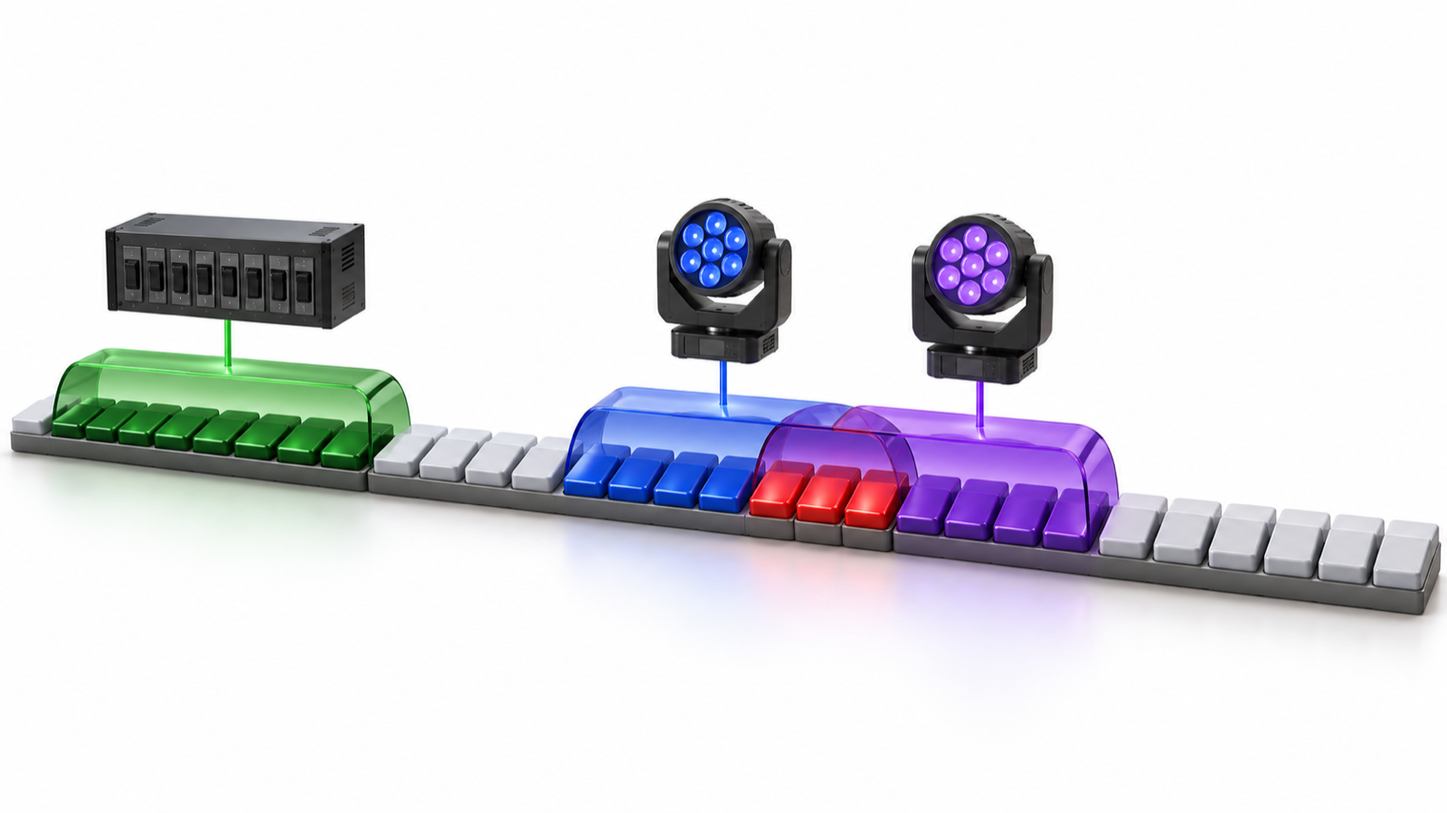
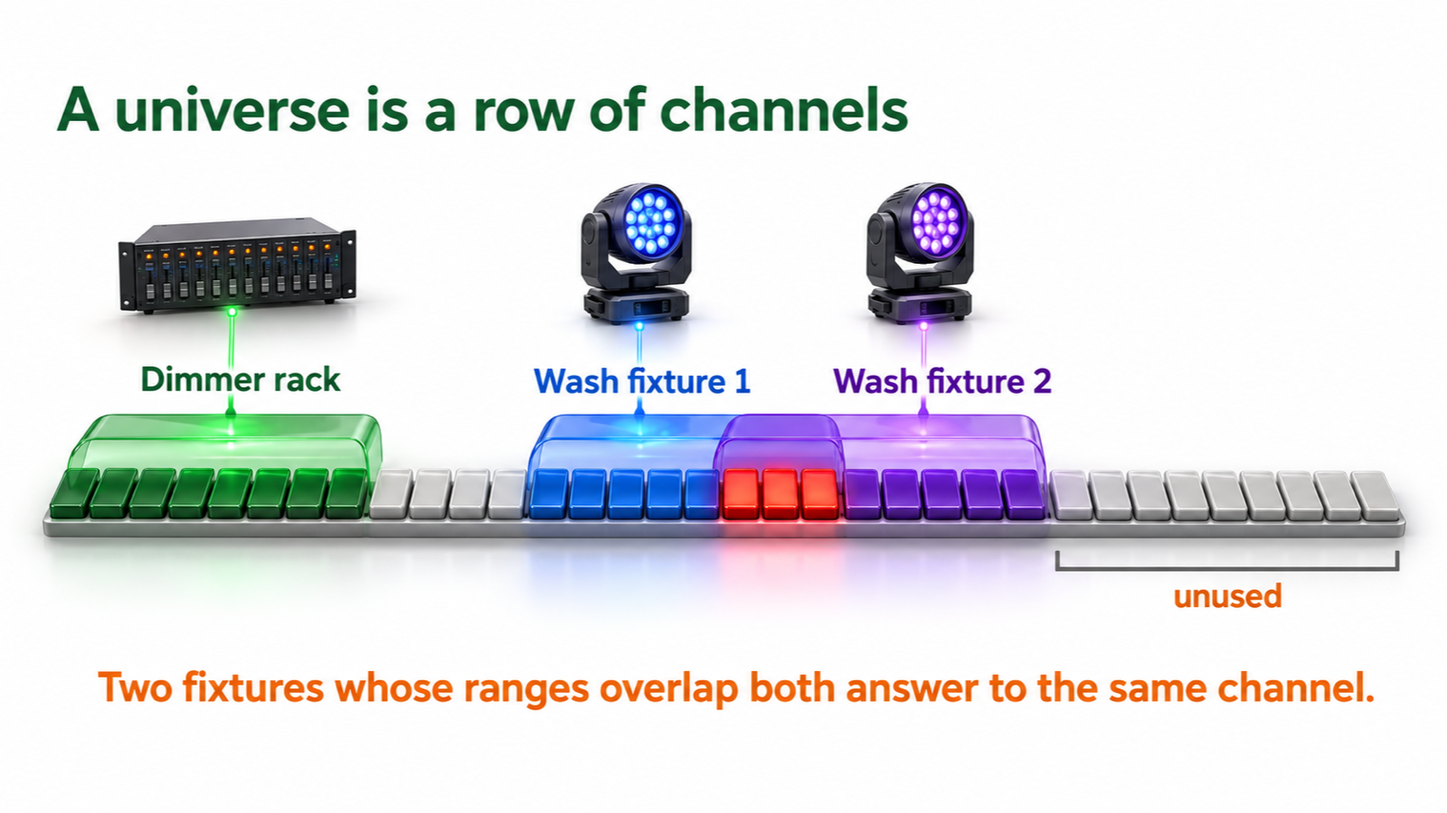
Canvas: 2026-10-02 23:16 - 23 files

Changed region(s): [[0.0, 0.2178, 1.0, 0.7778], [0.0625, 0.8089, 0.9688, 0.8711], [0.0312, 0.0933, 0.625, 0.1867]]

diff --git a/Classes/DAPR-2020--Core_Mixing/Mixing__Tuning/Archive/Scale_and_Target_Notes_Curves (earlier try 2026-10-02 1647).png.md b/Classes/DAPR-2020--Core_Mixing/Mixing__Tuning/Archive/Scale_and_Target_Notes_Curves (earlier try 2026-10-02 1647).png.md
@@ -1,0 +1,26 @@
+# Scale_and_Target_Notes_Curves (earlier try 2026-10-02 1647).png
+
+- What: earlier try
+- For: Canvas: Tuning: Pitch Correction Procedure Guide (Figure 1)
+- Picture: /Users/adamwolson/Library/CloudStorage/Dropbox/apps/GitHub/Canvas/Classes/DAPR-2020--Core_Mixing/Mixing__Tuning/Scale_and_Target_Notes_Curves.png
+- What was wrong or right (Adam's notes): PIANO KEYBOARD, EXACT (Adam 2026-10-02: the last one missed a black key in the bottom group). Two octaves, lowest note at the bottom, from F up to E. Bottom to top, one row per key, 24 rows: F white, F# black, G white, G# black, A white, A# black, B white, C white, C# black, D white, D# black, E white, then the same twelve again: F, F#, G, G#, A, A#, B, C, C#, D, D#, E. That is 14 white keys and 10 black keys. The black keys form four groups, bottom to top: THREE (F# G# A#), TWO (C# D#), THREE (F# G# A#), TWO (C# D#). Two white keys touch with no black key between them at B to C and at E to F. Black keys are shorter than white keys. Count the black keys before finishing: 10, grouped 3-2-3-2 from the bottom. The grid has exactly 24 rows lined up with the 24 keys; the C major rows are the 14 white-key rows.
+- Archived: 2026-10-02 1647
+
+## The prompt it was made from
+
+REPLACE AN IMAGE FILE. Adam's decision is already made: make this corrected image so it is saved over the existing file named below. Do not refuse and do not ask for a photo.
+
+DAPR 2020 - Core Mixing
+Image: Target notes constrained to the rows of one scale
+File name: Scale_and_Target_Notes_Curves.png
+Save to (overwrite): /Users/adamwolson/Library/CloudStorage/Dropbox/apps/GitHub/Canvas/Classes/DAPR-2020--Core_Mixing/Mixing__Tuning/Scale_and_Target_Notes_Curves.png
+Size: 1600 x 900 px
+Format: PNG, solid white background
+Used on: Tuning: Pitch Correction Procedure Guide (Figure 1)
+Fix: The current target lines are evenly spaced every whole step (a whole tone scale). A real major scale has seven targets per octave with half steps between E and F and between B and C, so two pairs of adjacent targets per octave sit only one row apart. The rainbow line colors also carry no meaning and are replaced by one color.
+
+Create a 1600 x 900 pixel PNG with a solid white background (#FFFFFF), wide landscape. A richly rendered dimensional diagram of a pitch editor piano roll seen from a slight three quarter angle. On the left edge, an accurate vertical piano keyboard, keys pointing right, lowest note at the bottom, covering about one and a half octaves from C: white keys full length, black keys shorter and glossy black in groups of two and three, no black key between E and F or between B and C. To the right, a grid of horizontal rows, one row per key. On every row that belongs to a white key (the C major scale) lies a glowing green (#1B5E20) target rail running the full width; rows that belong to black keys have no rail and stay plain light gray. The rails are therefore not evenly spaced: most neighbours are two rows apart, but E to F and B to C are only one row apart. Along the rails sit several short glossy blue (#0D47A1) note blocks at different heights, each resting exactly on a green rail and never on a gray row, showing where the corrector will pull each sung note. No text, no numbers, no logos, no brand marks, no model numbers, no watermark, no signature, no borders, no frames, no title bars, no caption text, no legible software screens (any screen is dark or softly defocused). No real product you could name. No hands or people.
+
+Adam's notes (they win over anything above): PIANO KEYBOARD, EXACT (Adam 2026-10-02: the last one missed a black key in the bottom group). Two octaves, lowest note at the bottom, from F up to E. Bottom to top, one row per key, 24 rows: F white, F# black, G white, G# black, A white, A# black, B white, C white, C# black, D white, D# black, E white, then the same twelve again: F, F#, G, G#, A, A#, B, C, C#, D, D#, E. That is 14 white keys and 10 black keys. The black keys form four groups, bottom to top: THREE (F# G# A#), TWO (C# D#), THREE (F# G# A#), TWO (C# D#). Two white keys touch with no black key between them at B to C and at E to F. Black keys are shorter than white keys. Count the black keys before finishing: 10, grouped 3-2-3-2 from the bottom. The grid has exactly 24 rows lined up with the 24 keys; the C major rows are the 14 white-key rows.
+
+KEEP EVERY WORD AND NUMBER (this wins over any line above that says no text, no numbers, no addresses or only one label): open the old image at /Users/adamwolson/Library/CloudStorage/Dropbox/apps/GitHub/Canvas/Classes/DAPR-2020--Core_Mixing/Mixing__Tuning/Scale_and_Target_Notes_Curves.png. Every label, number, address, value, unit and explanation it shows must be in the new picture, spelled exactly, beside the part it describes, large and easy to read. Change only the wording this item calls wrong, and write the corrected wording in its place. Never drop text to make the picture look cleaner.

diff --git a/Classes/DAPR-2020--Core_Mixing/Monitoring__Calibration_and_Monitoring/Archive/Head_Torso_Measurement (earlier try 2026-10-02 1646).png.md b/Classes/DAPR-2020--Core_Mixing/Monitoring__Calibration_and_Monitoring/Archive/Head_Torso_Measurement (earlier try 2026-10-02 1646).png.md
@@ -1,0 +1,26 @@
+# Head_Torso_Measurement (earlier try 2026-10-02 1646).png
+
+- What: earlier try
+- For: Canvas: Assignment: Pro Tools Lab 02 (Figure 1); Calibration: Speaker and Headphone Level Calibration (Figure 2)
+- Picture: /Users/adamwolson/Library/CloudStorage/Dropbox/apps/GitHub/Canvas/Classes/DAPR-2020--Core_Mixing/Monitoring__Calibration_and_Monitoring/Head_Torso_Measurement.png
+- What was wrong or right (Adam's notes): Adam 2026-10-02: Never put a microphone deep inside the ear; a measurement microphone is never pushed into the ear canal. NO headphones on the head. Show a gray head and torso measurement mannequin, side view, with a small measurement microphone sitting at the ENTRANCE of the ear canal, flush with the ear opening and nothing inside the ear, its cable running to a panel labeled Measured response with a frequency response curve. Label the microphone: Microphone at the ear canal entrance.
+- Archived: 2026-10-02 1646
+
+## The prompt it was made from
+
+REPLACE AN IMAGE FILE. Adam's decision is already made: make this corrected image so it is saved over the existing file named below. Do not refuse and do not ask for a photo.
+
+DAPR 2020 - Core Mixing
+Image: Headphone measured on a head and torso simulator with a microphone at the eardrum
+File name: Head_Torso_Measurement.png
+Save to (overwrite): /Users/adamwolson/Library/CloudStorage/Dropbox/apps/GitHub/Canvas/Classes/DAPR-2020--Core_Mixing/Monitoring__Calibration_and_Monitoring/Head_Torso_Measurement.png
+Size: 1600 x 900 px
+Format: PNG, solid white background
+Used on: Assignment: Pro Tools Lab 02 (Figure 1); Calibration: Speaker and Headphone Level Calibration (Figure 2)
+Fix: The current drawing puts the microphone at the ear canal opening and shows no headphone, although the caption describes a headphone measurement with the microphone where the eardrum would be. The new image shows a headphone on a measurement dummy with the microphone at the inner end of the ear canal.
+
+Create a 1600 x 900 pixel PNG with a solid white background (#FFFFFF), wide landscape. Photorealistic product photograph on a seamless white sweep, soft studio light. Left half: a generic head and torso measurement simulator, a smooth matte light gray mannequin head and shoulders with simple sculpted ears and no facial detail beyond a smooth nose and brow, seen in profile facing left. It wears a generic over ear headphone in charcoal (#212121). A clean cutaway window through the headphone cup and the side of the head reveals the ear canal as a short tube running inward, and at its inner end, where the eardrum would be, a small satin metal measurement microphone capsule with a thin blue (#0D47A1) glowing cable. The cable runs out and to the right into a floating glossy panel in the right half of the image that holds a raised blue response curve ribbon: a gentle rise, a broad hump, a dip and a smaller peak, over a plain panel with no grid numbers. No text, no numbers, no logos, no brand marks, no model numbers, no watermark, no signature, no borders, no frames, no title bars, no caption text, no legible software screens (any screen is dark or softly defocused). No real product you could name. No hands or people; the mannequin is a featureless measurement dummy.
+
+Adam's notes (they win over anything above): Adam 2026-10-02: Never put a microphone deep inside the ear; a measurement microphone is never pushed into the ear canal. NO headphones on the head. Show a gray head and torso measurement mannequin, side view, with a small measurement microphone sitting at the ENTRANCE of the ear canal, flush with the ear opening and nothing inside the ear, its cable running to a panel labeled Measured response with a frequency response curve. Label the microphone: Microphone at the ear canal entrance.
+
+KEEP EVERY WORD AND NUMBER (this wins over any line above that says no text, no numbers, no addresses or only one label): open the old image at /Users/adamwolson/Library/CloudStorage/Dropbox/apps/GitHub/Canvas/Classes/DAPR-2020--Core_Mixing/Monitoring__Calibration_and_Monitoring/Head_Torso_Measurement.png. Every label, number, address, value, unit and explanation it shows must be in the new picture, spelled exactly, beside the part it describes, large and easy to read. Change only the wording this item calls wrong, and write the corrected wording in its place. Never drop text to make the picture look cleaner.

diff --git a/Classes/DAPR-3255--Audio_Hardware_II/Networking__Foundations_of_Audio_Networking/Archive/Two_Arrow_Ladders_With_Dropped_Packet (earlier try 2026-10-02 1651).png.md b/Classes/DAPR-3255--Audio_Hardware_II/Networking__Foundations_of_Audio_Networking/Archive/Two_Arrow_Ladders_With_Dropped_Packet (earlier try 2026-10-02 1651).png.md
@@ -1,0 +1,34 @@
+# Two_Arrow_Ladders_With_Dropped_Packet (earlier try 2026-10-02 1651).png
+
+- What: earlier try
+- For: Canvas: Networking: Layer 4: Transport Protocols, Figure 2
+- Picture: /Users/adamwolson/Library/CloudStorage/Dropbox/apps/GitHub/Canvas/Classes/DAPR-3255--Audio_Hardware_II/Networking__Foundations_of_Audio_Networking/Two_Arrow_Ladders_With_Dropped_Packet.png
+- What was wrong or right (Adam's notes): No note written. Press N on the item to say what was wrong.
+- Archived: 2026-10-02 1651
+
+## The prompt it was made from
+
+REPLACE AN IMAGE FILE. Adam's decision is already made: make this corrected image so it is saved over the existing file named below. Do not refuse and do not ask for a photo.
+
+DAPR 3255 - Audio Hardware II
+Image: TCP Handshake and Resend Versus UDP Steady Stream
+File name: Two_Arrow_Ladders_With_Dropped_Packet.png
+Save to (overwrite): /Users/adamwolson/Library/CloudStorage/Dropbox/apps/GitHub/Canvas/Classes/DAPR-3255--Audio_Hardware_II/Networking__Foundations_of_Audio_Networking/Two_Arrow_Ladders_With_Dropped_Packet.png
+Size: 1600 x 900 px
+Format: PNG, solid white background
+Used on: Networking: Layer 4: Transport Protocols, Figure 2
+Fix: Show a three leg TCP handshake (out, back, out) before the data, and after the lost packet show the receiver asking again and the sender resending the same packet, with the packets behind it held waiting, so TCP visibly arrives complete but late. UDP keeps its even spacing and simply loses one packet.
+
+Create a 1600 x 900 pixel PNG with a solid white background (#FFFFFF), wide landscape. Show two side by side timing ladders on pale floor tiles. Each ladder has two tall glossy charcoal #212121 posts, sender on the left post and receiver on the right post, with time flowing downward. Messages are glossy packet tiles sliding along glowing diagonal tracks that slope gently downward as they cross from one post to the other.
+
+Left ladder (blue #0D47A1 packets): at the top, three short handshake tracks zig zag across: sender to receiver, receiver back to sender, sender to receiver. Then three data packets cross. The fourth data packet shatters into red #B71C1C fragments halfway across. A small blue track returns from the receiver to the sender, and the sender sends that same packet again lower down, marked with a faint glow ring. Beside the receiver post, the packets that followed wait stacked in a small queue until the resent packet arrives. The last packet reaches the receiver noticeably lower on the post than on the right ladder: it arrives late.
+
+Right ladder (green #1B5E20 packets): no handshake. Six packets cross at perfectly even spacing. The third shatters into red fragments halfway across and is simply gone; the rest keep coming at the same even rhythm, and the last one reaches the receiver higher on the post than on the left ladder: on time.
+
+Quote exactly two labels, bold, centered above each ladder: "TCP" above the left ladder and "UDP" above the right ladder.
+
+Style: a richly rendered dimensional diagram in a three quarter view, with real depth, soft shading, soft contact shadows and solid color fills, like glossy 3D posts, tiles and glowing tracks. Not flat vector, not line art, not clip art. Palette: charcoal #212121, green #1B5E20, blue #0D47A1, red #B71C1C, brown orange #993300, violet #4A148C, with lighter tints for floors.
+
+No text other than the quoted labels, no numbers, no logos, no brand marks, no model numbers, no watermark, no signature, no borders, no frames, no title bars, no caption text, no legible software screens (any screen is dark or softly defocused). No real product you could name. No hands or people.
+
+KEEP EVERY WORD AND NUMBER (this wins over any line above that says no text, no numbers, no addresses or only one label): open the old image at /Users/adamwolson/Library/CloudStorage/Dropbox/apps/GitHub/Canvas/Classes/DAPR-3255--Audio_Hardware_II/Networking__Foundations_of_Audio_Networking/Two_Arrow_Ladders_With_Dropped_Packet.png. Every label, number, address, value, unit and explanation it shows must be in the new picture, spelled exactly, beside the part it describes, large and easy to read. Change only the wording this item calls wrong, and write the corrected wording in its place. Never drop text to make the picture look cleaner.

diff --git a/Classes/DAPR-2020--Core_Mixing/Mixing__Focus_and_Balance/Archive/Drum_Mic_Path_Lengths (earlier try 2026-10-02 2314).png.md b/Classes/DAPR-2020--Core_Mixing/Mixing__Focus_and_Balance/Archive/Drum_Mic_Path_Lengths (earlier try 2026-10-02 2314).png.md
@@ -1,0 +1,24 @@
+# Drum_Mic_Path_Lengths (earlier try 2026-10-02 2314).png
+
+- What: earlier try
+- For: Canvas: Focus and Balance: Mix Balancing (Figure 2)
+- Picture: /Users/adamwolson/Library/CloudStorage/Dropbox/apps/GitHub/Canvas/Classes/DAPR-2020--Core_Mixing/Mixing__Focus_and_Balance/Drum_Mic_Path_Lengths.png
+- What was wrong or right (Adam's notes): Adam 2026-10-02: the kick drum miking is wrong; a kick mic is never on top of the bass drum. The bass drum lies on its side: its batter head and pedal face the drummer at the throne (bottom of the picture), its front resonant head faces away (top of the picture, behind the toms). The KICK microphone sits on a short floor stand OUTSIDE the front head, at the far side from the drummer, at or just inside the front head port hole, pointing back toward the beater. Label it Kick there. Every other mic as now: Snare on the snare rim, Tom 1 and Tom 2 on their rims, Overhead L and Overhead R above the cymbals. Keep the blue path-length lines from the snare to each mic.
+- Archived: 2026-10-02 2314
+
+## The prompt it was made from
+
+REPLACE AN IMAGE FILE. Adam's decision is already made: make this corrected image so it is saved over the existing file named below. Do not refuse and do not ask for a photo.
+
+DAPR 2020 - Core Mixing
+Image: Overhead drum kit with snare to microphone path lengths
+File name: Drum_Mic_Path_Lengths.png
+Save to (overwrite): /Users/adamwolson/Library/CloudStorage/Dropbox/apps/GitHub/Canvas/Classes/DAPR-2020--Core_Mixing/Mixing__Focus_and_Balance/Drum_Mic_Path_Lengths.png
+Size: 1600 x 900 px
+Format: PNG, solid white background
+Used on: Focus and Balance: Mix Balancing (Figure 2)
+Fix: The current kit is not a real layout: the snare sits in line between the kick and the rack toms and the cymbals are drawn side on with tripod legs. The new image uses a real kit seen from directly above: rack toms mounted over the kick, snare beside the kick on the drummer's left, closest to the throne.
+
+Create a 1600 x 900 pixel PNG with a solid white background (#FFFFFF), wide landscape. Photorealistic overhead product photograph of a generic unbranded five piece drum kit, shot straight down from above, the drummer's empty throne at the bottom center of the frame. Layout exactly as a real kit: the bass drum in the center pointing up the frame away from the throne; two rack toms mounted on top of the bass drum shell, angled toward the throne; the snare drum between the throne and the bass drum, just to the image left of the bass drum, closest to the throne; the hi hat further to the image left of the snare; the floor tom to the image right of the throne; a crash cymbal above left and a ride cymbal above right. Small generic microphones: one at the front of the bass drum, one clipped at the snare rim, one clipped on each rack tom, and two overhead microphones hanging high above the kit, one over the left side and one over the right side. From the center of the snare head, five glowing blue (#0D47A1) lines run out to the bass drum mic, the two tom mics and the two overhead mics, each a clearly different length, each with small evenly spaced tick marks along it like a measuring tape. Soft even studio light, natural drum finishes in deep charcoal (#212121) with brass cymbals. No text, no numbers, no logos, no brand marks, no model numbers, no watermark, no signature, no borders, no frames, no title bars, no caption text, no legible software screens (any screen is dark or softly defocused). No real product you could name. No hands or people.
+
+KEEP EVERY WORD AND NUMBER (this wins over any line above that says no text, no numbers, no addresses or only one label): open the old image at /Users/adamwolson/Library/CloudStorage/Dropbox/apps/GitHub/Canvas/Classes/DAPR-2020--Core_Mixing/Mixing__Focus_and_Balance/Drum_Mic_Path_Lengths.png. Every label, number, address, value, unit and explanation it shows must be in the new picture, spelled exactly, beside the part it describes, large and easy to read. Change only the wording this item calls wrong, and write the corrected wording in its place. Never drop text to make the picture look cleaner.

diff --git a/Classes/DAPR-2255--Audio_Hardware_I/MIDI__Systems_and_Implementation/Archive/DMX_Universe_Addressing (earlier try 2026-10-02 1650).png.md b/Classes/DAPR-2255--Audio_Hardware_I/MIDI__Systems_and_Implementation/Archive/DMX_Universe_Addressing (earlier try 2026-10-02 1650).png.md
@@ -1,0 +1,24 @@
+# DMX_Universe_Addressing (earlier try 2026-10-02 1650).png
+
+- What: earlier try
+- For: Canvas: MIDI: DMX512 Protocol and Signal Structure (Figure 4)
+- Picture: /Users/adamwolson/Library/CloudStorage/Dropbox/apps/GitHub/Canvas/Classes/DAPR-2255--Audio_Hardware_I/MIDI__Systems_and_Implementation/DMX_Universe_Addressing.png
+- What was wrong or right (Adam's notes): No note written. Press N on the item to say what was wrong.
+- Archived: 2026-10-02 1650
+
+## The prompt it was made from
+
+REPLACE AN IMAGE FILE. Adam's decision is already made: make this corrected image so it is saved over the existing file named below. Do not refuse and do not ask for a photo.
+
+DAPR 2255 - Audio Hardware I
+Image: DMX universe as a row of channel tiles with two overlapping fixtures
+File name: DMX_Universe_Addressing.png
+Save to (overwrite): /Users/adamwolson/Library/CloudStorage/Dropbox/apps/GitHub/Canvas/Classes/DAPR-2255--Audio_Hardware_I/MIDI__Systems_and_Implementation/DMX_Universe_Addressing.png
+Size: 1600 x 900 px
+Format: PNG, solid white background
+Used on: MIDI: DMX512 Protocol and Signal Structure (Figure 4)
+Fix: The caption says two fixture ranges overlap but the current drawing shows three separate ranges; the new image shows the two wash fixture ranges visibly overlapping on shared channels, with the shared tiles marked in red.
+
+Create a 1600 x 900 pixel PNG with a solid white background (#FFFFFF), wide landscape. Make it a richly rendered dimensional diagram in a three quarter view: one long straight row of about forty small glossy square tiles running left to right across the frame, like keys on a long tray, soft studio shading and gentle shadows. Unused tiles are pale grey. Starting at the left end, the first eight tiles are glossy green (#1B5E20) with a translucent green glass canopy arching over them, the dimmer rack's range. After a gap of a few grey tiles, a translucent blue (#0D47A1) glass canopy arches over a run of eight tiles, the first wash fixture. A translucent violet (#4A148C) glass canopy starts over the last three tiles of that blue run and continues over five more tiles, the second wash fixture, so the two canopies clearly overlap on exactly three shared tiles. Those three shared tiles glow solid red (#B71C1C) and sit slightly raised, with both the blue and violet canopies visibly passing over them. The remaining tiles to the right are plain pale grey and unused. Above the blue canopy float a small generic unbranded wash light fixture, and above the violet canopy a second identical fixture, each linked to its canopy by a thin glowing line; above the green canopy floats a small generic unbranded dimmer rack. No text of any kind, no numbers, no logos, no brand marks, no model numbers, no watermark, no signature, no borders, no frames, no title bars, no caption text, no legible software screens (any screen is dark or softly defocused). No real product you could name. No hands or people.
+
+KEEP EVERY WORD AND NUMBER (this wins over any line above that says no text, no numbers, no addresses or only one label): open the old image at /Users/adamwolson/Library/CloudStorage/Dropbox/apps/GitHub/Canvas/Classes/DAPR-2255--Audio_Hardware_I/MIDI__Systems_and_Implementation/DMX_Universe_Addressing.png. Every label, number, address, value, unit and explanation it shows must be in the new picture, spelled exactly, beside the part it describes, large and easy to read. Change only the wording this item calls wrong, and write the corrected wording in its place. Never drop text to make the picture look cleaner.

diff --git a/Classes/DAPR-2020--Core_Mixing/Mixing__Focus_and_Balance/Archive/Drum_Mic_Path_Lengths (earlier try 2026-10-02 1649).png.md b/Classes/DAPR-2020--Core_Mixing/Mixing__Focus_and_Balance/Archive/Drum_Mic_Path_Lengths (earlier try 2026-10-02 1649).png.md
@@ -1,0 +1,24 @@
+# Drum_Mic_Path_Lengths (earlier try 2026-10-02 1649).png
+
+- What: earlier try
+- For: Canvas: Focus and Balance: Mix Balancing (Figure 2)
+- Picture: /Users/adamwolson/Library/CloudStorage/Dropbox/apps/GitHub/Canvas/Classes/DAPR-2020--Core_Mixing/Mixing__Focus_and_Balance/Drum_Mic_Path_Lengths.png
+- What was wrong or right (Adam's notes): No note written. Press N on the item to say what was wrong.
+- Archived: 2026-10-02 1649
+
+## The prompt it was made from
+
+REPLACE AN IMAGE FILE. Adam's decision is already made: make this corrected image so it is saved over the existing file named below. Do not refuse and do not ask for a photo.
+
+DAPR 2020 - Core Mixing
+Image: Overhead drum kit with snare to microphone path lengths
+File name: Drum_Mic_Path_Lengths.png
+Save to (overwrite): /Users/adamwolson/Library/CloudStorage/Dropbox/apps/GitHub/Canvas/Classes/DAPR-2020--Core_Mixing/Mixing__Focus_and_Balance/Drum_Mic_Path_Lengths.png
+Size: 1600 x 900 px
+Format: PNG, solid white background
+Used on: Focus and Balance: Mix Balancing (Figure 2)
+Fix: The current kit is not a real layout: the snare sits in line between the kick and the rack toms and the cymbals are drawn side on with tripod legs. The new image uses a real kit seen from directly above: rack toms mounted over the kick, snare beside the kick on the drummer's left, closest to the throne.
+
+Create a 1600 x 900 pixel PNG with a solid white background (#FFFFFF), wide landscape. Photorealistic overhead product photograph of a generic unbranded five piece drum kit, shot straight down from above, the drummer's empty throne at the bottom center of the frame. Layout exactly as a real kit: the bass drum in the center pointing up the frame away from the throne; two rack toms mounted on top of the bass drum shell, angled toward the throne; the snare drum between the throne and the bass drum, just to the image left of the bass drum, closest to the throne; the hi hat further to the image left of the snare; the floor tom to the image right of the throne; a crash cymbal above left and a ride cymbal above right. Small generic microphones: one at the front of the bass drum, one clipped at the snare rim, one clipped on each rack tom, and two overhead microphones hanging high above the kit, one over the left side and one over the right side. From the center of the snare head, five glowing blue (#0D47A1) lines run out to the bass drum mic, the two tom mics and the two overhead mics, each a clearly different length, each with small evenly spaced tick marks along it like a measuring tape. Soft even studio light, natural drum finishes in deep charcoal (#212121) with brass cymbals. No text, no numbers, no logos, no brand marks, no model numbers, no watermark, no signature, no borders, no frames, no title bars, no caption text, no legible software screens (any screen is dark or softly defocused). No real product you could name. No hands or people.
+
+KEEP EVERY WORD AND NUMBER (this wins over any line above that says no text, no numbers, no addresses or only one label): open the old image at /Users/adamwolson/Library/CloudStorage/Dropbox/apps/GitHub/Canvas/Classes/DAPR-2020--Core_Mixing/Mixing__Focus_and_Balance/Drum_Mic_Path_Lengths.png. Every label, number, address, value, unit and explanation it shows must be in the new picture, spelled exactly, beside the part it describes, large and easy to read. Change only the wording this item calls wrong, and write the corrected wording in its place. Never drop text to make the picture look cleaner.

diff --git a/Classes/DAPR-2255--Audio_Hardware_I/Auxiliary_Resources/Archive/Reference_Downloads (earlier try 2026-10-02 1634).png.md b/Classes/DAPR-2255--Audio_Hardware_I/Auxiliary_Resources/Archive/Reference_Downloads (earlier try 2026-10-02 1634).png.md
@@ -1,0 +1,15 @@
+# Reference_Downloads (earlier try 2026-10-02 1634).png
+
+- What: earlier try
+- For: Canvas: Auxiliary Resources
+- Picture: /Users/adamwolson/Library/CloudStorage/Dropbox/apps/GitHub/Canvas/Classes/DAPR-2255--Audio_Hardware_I/Auxiliary_Resources/Reference_Downloads.png
+- What was wrong or right (Adam's notes): No note written. Press N on the item to say what was wrong.
+- Archived: 2026-10-02 1634
+
+## The prompt it was made from
+
+Create a 1600 x 900 pixel PNG.
+
+Wide landscape image. A photorealistic close up of a dark wooden desk with two plain unbranded portable hard drives stacked loosely, a short braided USB cable coiled beside them, and a small plain USB flash drive standing in front. A closed laptop lid and a coil of test leads sit softly out of focus behind. Cool, even light. No text, no numbers, no labels, no stickers, no logos, no brand marks, no model numbers, no watermark, no screens, no people, no hands. No legible screens, no real product you could name.
+
+KEEP EVERY WORD AND NUMBER (this wins over any line above that says no text, no numbers, no addresses or only one label): open the old image at /Users/adamwolson/Library/CloudStorage/Dropbox/apps/GitHub/Canvas/Classes/DAPR-2255--Audio_Hardware_I/Auxiliary_Resources/Reference_Downloads.png. Every label, number, address, value, unit and explanation it shows must be in the new picture, spelled exactly, beside the part it describes, large and easy to read. Change only the wording this item calls wrong, and write the corrected wording in its place. Never drop text to make the picture look cleaner.
